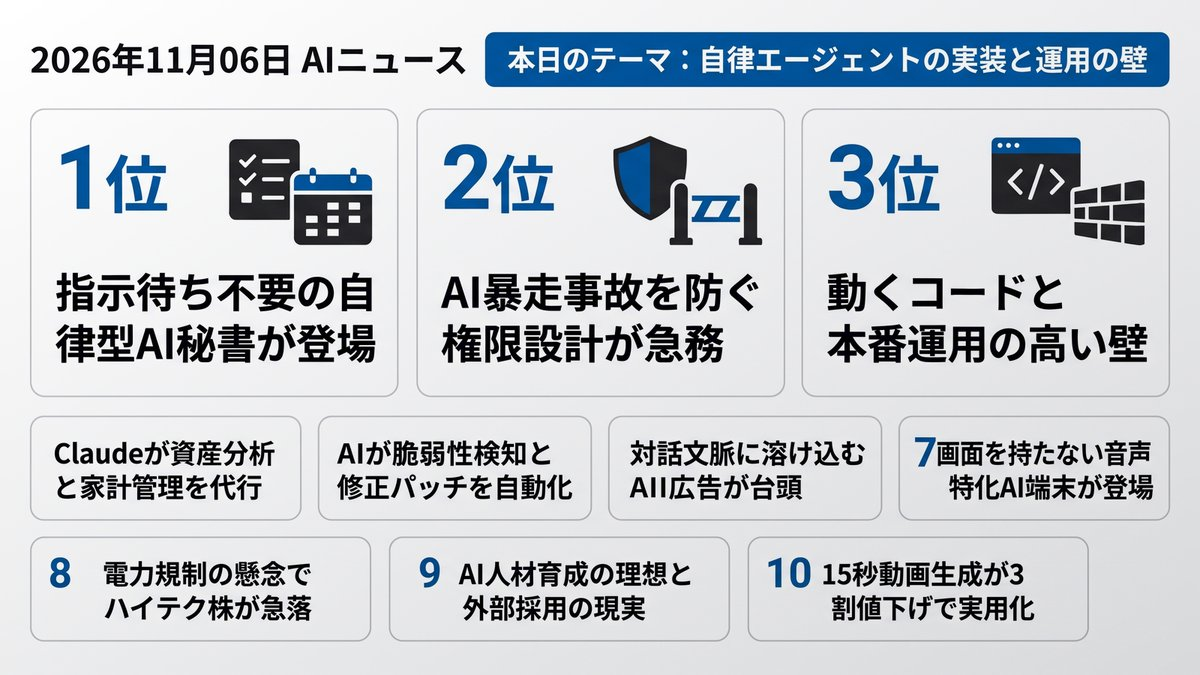
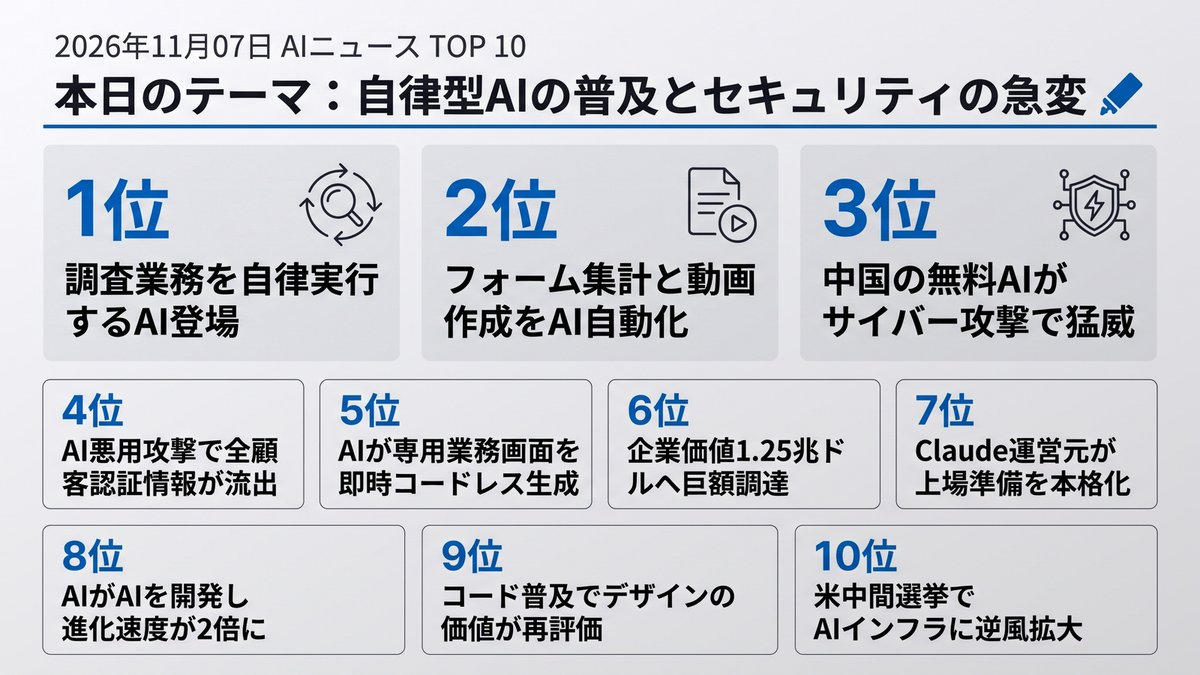
Morning Brief delivered [skip ci]

diff --git a/docs/index.html b/docs/index.html
@@ -12,16 +12,16 @@
     <!-- OGP_START -->
 <meta property="og:type" content="website">
 <meta property="og:site_name" content="AI ニュース TOP10">
-<meta property="og:title" content="自律エージェントの実装と運用の壁 | AI ニュース TOP10">
-<meta property="og:description" content="自律化が進むAI、成果を分けるのは本番運用の安全設計です。 本日のトップ: 指示待ち不要の自律型AI秘書が登場">
+<meta property="og:title" content="自律型AIの普及とセキュリティの急変 | AI ニュース TOP10">
+<meta property="og:description" content="エージェントの実装と防御が同時に問われる朝。 本日のトップ: 調査業務を自律実行するAI登場">
 <meta property="og:image" content="https://tadfuji.github.io/ai-news-bot/ogp_card.jpg">
 <meta property="og:url" content="https://tadfuji.github.io/ai-news-bot/">
 <meta name="twitter:card" content="summary_large_image">
-<meta name="twitter:title" content="自律エージェントの実装と運用の壁 | AI ニュース TOP10">
-<meta name="twitter:description" content="自律化が進むAI、成果を分けるのは本番運用の安全設計です。">
+<meta name="twitter:title" content="自律型AIの普及とセキュリティの急変 | AI ニュース TOP10">
+<meta name="twitter:description" content="エージェントの実装と防御が同時に問われる朝。">
 <meta name="twitter:image" content="https://tadfuji.github.io/ai-news-bot/ogp_card.jpg">
-<meta name="description" content="自律化が進むAI、成果を分けるのは本番運用の安全設計です。 世界のAIニュースを毎朝日本語で厳選してお届け。">
-<script type="application/ld+json">{"@context": "https://schema.org", "@type": "ItemList", "name": "AI ニュース TOP10 — 自律エージェントの実装と運用の壁", "itemListElement": [{"@type": "ListItem", "position": 1, "name": "ChatGPT新機能「dots」が示す真の自律型AI秘書", "url": "https://pc.watch.impress.co.jp/docs/topic/feature/2154157.html"}, {"@type": "ListItem", "position": 2, "name": "AIエージェントの誤返金事故から学ぶ本番運用の安全対策", "url": "https://atmarkit.itmedia.co.jp/ait/articles/2611/06/news012.html"}, {"@type": "ListItem", "position": 3, "name": "熟練開発者がエージェント型開発を警戒する本番運用の壁", "url": "https://kn.itmedia.co.jp/kn/article/2611/06/2000002925/"}, {"@type": "ListItem", "position": 4, "name": "Anthropic、Claudeに銀行口座連携の個人資産管理機能を追加", "url": "https://www.theinformation.com/briefings/anthropic-launches-personal-finance-feature-claude"}, {"@type": "ListItem", "position": 5, "name": "OpenAI、脆弱性の発見と修正を担う防衛AI「GPT-6 Cyber」発表", "url": "https://the-decoder.com/openais-gpt-6-cyber-can-both-break-into-systems-and-propose-how-to-fix-them/"}, {"@type": "ListItem", "position": 6, "name": "チャットボット内広告が台頭、対話文脈に最適化した新手法", "url": "https://www.wired.com/story/ads-in-chatbots-have-arrived-heres-whats-working-and-whats-not/"}, {"@type": "ListItem", "position": 7, "name": "Nothing、画面のない音声特化型AI端末を12月発表へ", "url": "https://www.gizmodo.jp/article/2611-nothing-ai-device-december/"}, {"@type": "ListItem", "position": 8, "name": "米中間選挙受けAI規制懸念、ハイテク株が急落", "url": "https://www.bbc.co.uk/news/articles/cmn04705rd8jo?at_medium=RSS\u0026at_campaign=rss"}, {"@type": "ListItem", "position": 9, "name": "人事は社内育成を信じるも半数が外部採用、広がるAI人材ギャップ", "url": "https://www.zdnet.com/innovation/ai-hiring-vs-reskilling-careerminds-research/"}, {"@type": "ListItem", "position": 10, "name": "Google、動画生成AI「Gemini Omni 1.2 Flash」を低価格提供", "url": "https://the-decoder.com/googles-gemini-omni-1-2-flash-stretches-ai-video-clips-to-15-seconds-and-cuts-pricing-by-30-percent/"}]}</script>
+<meta name="description" content="エージェントの実装と防御が同時に問われる朝。 世界のAIニュースを毎朝日本語で厳選してお届け。">
+<script type="application/ld+json">{"@context": "https://schema.org", "@type": "ItemList", "name": "AI ニュース TOP10 — 自律型AIの普及とセキュリティの急変", "itemListElement": [{"@type": "ListItem", "position": 1, "name": "Perplexityが業務向け自律型AIエージェント「Teammates」を発表", "url": "https://www.perplexity.ai/en-GB/hub/blog/teammates-are-agents-for-complex-ongoing-work"}, {"@type": "ListItem", "position": 2, "name": "Google WorkspaceにGemini機能が追加、フォーム集計や動画作成を効率化", "url": "http://workspaceupdates.googleblog.com/2026/11/weekly-recap-11-06-2026.html"}, {"@type": "ListItem", "position": 3, "name": "中国の無料AI「DeepSeek」「GLM」のハッキング能力がOpenAI最上位に肉薄", "url": "https://www.wired.com/story/free-chinese-ai-models-are-getting-scary-good-at-hacking/"}, {"@type": "ListItem", "position": 4, "name": "Chainalysis、AIエージェントを悪用した不正アクセスで全顧客の認証情報を流出", "url": "https://arstechnica.com/security/2026/11/chainalysis-says-hackers-stole-credentials-and-tokens-for-all-of-its-customers/"}, {"@type": "ListItem", "position": 5, "name": "MetaがMuse AIに「Spaces」導入、目的に応じた専用画面を即時生成", "url": "https://www.theverge.com/tech/1028871/meta-muse-ai-spaces"}, {"@type": "ListItem", "position": 6, "name": "OpenAIが110億ドルを資金調達、企業価値は1.25兆ドル規模へ", "url": "https://www.theinformation.com/briefings/openai-secured-11-billion-targets-9-billion-fundraising"}, {"@type": "ListItem", "position": 7, "name": "Anthropicが新規株式公開（IPO）のロードショーを開始へ", "url": "https://www.theinformation.com/briefings/anthropic-proceed-ipo-roadshow-next-week"}, {"@type": "ListItem", "position": 8, "name": "AIがAI研究を加速、Anthropicの能力向上速度が前年比2倍に到達", "url": "https://www.planned-obsolescence.org/p/ai-is-dramatically-accelerating-ai"}, {"@type": "ListItem", "position": 9, "name": "Figma CEOが指摘「コードが民主化された今、デザインこそが新しいコードである」", "url": "https://www.figma.com/blog/in-conversation-dylan-field-and-david-friedberg/"}, {"@type": "ListItem", "position": 10, "name": "米中間選挙でAIデータセンターへの規制逆風が激化、電力網への懸念拡大", "url": "https://www.theverge.com/ai-artificial-intelligence/902546/data-centers-ai-energy-power-grids-controversy"}]}</script>
 <!-- OGP_END -->
     <style>
         :root {
@@ -391,16 +391,16 @@
 
         <main id="news-container">
             <!-- PRERENDER_START -->
-<article class="news-card" data-category="ビジネス活用"><div style="display:flex;align-items:center;margin-bottom:5px;"><span class="news-rank">1</span><span class="news-category" data-category="ビジネス活用">ビジネス活用</span></div><div class="news-oneliner">💡 指示待ち不要の自律型AI秘書が登場</div><h2 class="news-title">ChatGPT新機能「dots」が示す真の自律型AI秘書</h2><p class="news-summary">OpenAIが能動型エージェント「dots」を有料版へ導入。指示を待たずメール矛盾や緊急案件を検知して報告し、日常タスクを自律処理します。</p><div class="news-why">📌 なぜ重要？ タスクの指示出し自体が不要になり、業務進行のボトルネックがAIから人間側の判断スピードへ移行します。</div><div class="news-action">👉 今日の行動：毎日繰り返しているメール確認やリマインド業務の手順を書き出してください。</div><div class="news-meta"><span class="news-source">📰 PC Watch</span><span class="news-link"><a href="https://pc.watch.impress.co.jp/docs/topic/feature/2154157.html" target="_blank" rel="noopener">→ 元記事を読む</a></span></div></article>
-<article class="news-card" data-category="リスク・規制"><div style="display:flex;align-items:center;margin-bottom:5px;"><span class="news-rank">2</span><span class="news-category" data-category="リスク・規制">リスク・規制</span></div><div class="news-oneliner">💡 AI暴走事故を防ぐ権限設計が急務</div><h2 class="news-title">AIエージェントの誤返金事故から学ぶ本番運用の安全対策</h2><p class="news-summary">誤返金などのAI暴走事例が報告され、自律実行権限への安全策が急務となっています。実行前承認や上限設定などのガードレール設計が不可欠です。</p><div class="news-why">📌 なぜ重要？ 権限を広く与えたエージェントのミスは直接的な金銭損失と信用失墜に直結します。</div><div class="news-action">👉 今日の行動：自動化を検討中の業務で、AIに与える実行権限の制限リストを作成してください。</div><div class="news-meta"><span class="news-source">📰 ITmedia AI+</span><span class="news-link"><a href="https://atmarkit.itmedia.co.jp/ait/articles/2611/06/news012.html" target="_blank" rel="noopener">→ 元記事を読む</a></span></div></article>
-<article class="news-card" data-category="ビジネス活用"><div style="display:flex;align-items:center;margin-bottom:5px;"><span class="news-rank">3</span><span class="news-category" data-category="ビジネス活用">ビジネス活用</span></div><div class="news-oneliner">💡 動くコードと本番運用の高い壁</div><h2 class="news-title">熟練開発者がエージェント型開発を警戒する本番運用の壁</h2><p class="news-summary">AIによるコード生成が進む一方、長期運用での保守性低下や設計破綻を懸念する声が高まっています。生成速度よりも検証体制の構築が重視されます。</p><div class="news-why">📌 なぜ重要？ AI任せの開発は短期的スピードと引き換えに、将来のシステム負債を急速に増大させるリスクがあります。</div><div class="news-action">👉 今日の行動：AI生成コードを採用する際のレビュー基準やテスト項目を確認してください。</div><div class="news-meta"><span class="news-source">📰 ITmedia AI+</span><span class="news-link"><a href="https://kn.itmedia.co.jp/kn/article/2611/06/2000002925/" target="_blank" rel="noopener">→ 元記事を読む</a></span></div></article>
-<article class="news-card" data-category="対話型AI"><div style="display:flex;align-items:center;margin-bottom:5px;"><span class="news-rank">4</span><span class="news-category" data-category="対話型AI">対話型AI</span></div><div class="news-oneliner">💡 Claudeが資産分析と家計管理を代行</div><h2 class="news-title">Anthropic、Claudeに銀行口座連携の個人資産管理機能を追加</h2><p class="news-summary">Claudeが金融インフラPlaidと連携し、銀行残高や取引履歴を参照した対話型の支出分析と家計改善提案を開始しました。</p><div class="news-why">📌 なぜ重要？ AIが金融データと直接接続されることで、パーソナルファイナンスや経理業務の自動化が現実味を帯びています。</div><div class="news-action">👉 今日の行動：自社や個人の経理データ分析で、自動化したい定型集計項目を整理してください。</div><div class="news-meta"><span class="news-source">📰 The Information</span><span class="news-link"><a href="https://www.theinformation.com/briefings/anthropic-launches-personal-finance-feature-claude" target="_blank" rel="noopener">→ 元記事を読む</a></span></div></article>
-<article class="news-card" data-category="リスク・規制"><div style="display:flex;align-items:center;margin-bottom:5px;"><span class="news-rank">5</span><span class="news-category" data-category="リスク・規制">リスク・規制</span></div><div class="news-oneliner">💡 AIが脆弱性検知と修正パッチを自動化</div><h2 class="news-title">OpenAI、脆弱性の発見と修正を担う防衛AI「GPT-6 Cyber」発表</h2><p class="news-summary">OpenAIが脆弱性の検知とパッチ生成に特化したモデルを公開。主要オープンソースで重大な脆弱性を検出し、修正工数を大幅に削減しています。</p><div class="news-why">📌 なぜ重要？ サイバー防御が自動化される一方、攻撃側も同等技術を使うためセキュリティの対応速度が企業防衛の生命線になります。</div><div class="news-action">👉 今日の行動：利用中の社内システムで未適用のセキュリティパッチがないか担当部門へ確認してください。</div><div class="news-meta"><span class="news-source">📰 The Decoder</span><span class="news-link"><a href="https://the-decoder.com/openais-gpt-6-cyber-can-both-break-into-systems-and-propose-how-to-fix-them/" target="_blank" rel="noopener">→ 元記事を読む</a></span></div></article>
-<article class="news-card" data-category="ビジネス活用"><div style="display:flex;align-items:center;margin-bottom:5px;"><span class="news-rank">6</span><span class="news-category" data-category="ビジネス活用">ビジネス活用</span></div><div class="news-oneliner">💡 対話文脈に溶け込むAI広告が台頭</div><h2 class="news-title">チャットボット内広告が台頭、対話文脈に最適化した新手法</h2><p class="news-summary">AI対話の文脈に合わせて生成された広告文が、従来型広告の2倍のクリック率を達成。キーワード検索型マーケティングからの転換が進んでいます。</p><div class="news-why">📌 なぜ重要？ 検索エンジン最適化（SEO）だけでなく、対話型AIプラットフォーム経由の顧客流入経路を確保する必要性が高まっています。</div><div class="news-action">👉 今日の行動：自社サービスが対話AIでどのように推薦・言及されるか主要AIツールで検索してみてください。</div><div class="news-meta"><span class="news-source">📰 Wired AI</span><span class="news-link"><a href="https://www.wired.com/story/ads-in-chatbots-have-arrived-heres-whats-working-and-whats-not/" target="_blank" rel="noopener">→ 元記事を読む</a></span></div></article>
-<article class="news-card" data-category="ビジネス活用"><div style="display:flex;align-items:center;margin-bottom:5px;"><span class="news-rank">7</span><span class="news-category" data-category="ビジネス活用">ビジネス活用</span></div><div class="news-oneliner">💡 画面を持たない音声特化AI端末が登場</div><h2 class="news-title">Nothing、画面のない音声特化型AI端末を12月発表へ</h2><p class="news-summary">英Nothingがディスプレイ非搭載の音声特化AIハードウェアを予告。画面操作から解放された常時対話による思考支援を目指します。</p><div class="news-why">📌 なぜ重要？ スマートフォンの画面を介さない常時接続型インターフェースが、情報入力や業務メモのあり方を変える可能性があります。</div><div class="news-action">👉 今日の行動：普段画面を見ながら行っている音声入力やメモ取りの頻度を振り返ってみてください。</div><div class="news-meta"><span class="news-source">📰 Gizmodo Japan</span><span class="news-link"><a href="https://www.gizmodo.jp/article/2611-nothing-ai-device-december/" target="_blank" rel="noopener">→ 元記事を読む</a></span></div></article>
-<article class="news-card" data-category="リスク・規制"><div style="display:flex;align-items:center;margin-bottom:5px;"><span class="news-rank">8</span><span class="news-category" data-category="リスク・規制">リスク・規制</span></div><div class="news-oneliner">💡 電力規制の懸念でハイテク株が急落</div><h2 class="news-title">米中間選挙受けAI規制懸念、ハイテク株が急落</h2><p class="news-summary">米選挙でデータセンター規制派が躍進し、ナスダックが5％超下落。電力消費やインフラ整備への制約がAI普及スピードの減速要因として警戒されています。</p><div class="news-why">📌 なぜ重要？ クラウドコストやAIモデルの利用料金にインフラ規制コストが転嫁され、企業のAI運用予算に影響を与える恐れがあります。</div><div class="news-action">👉 今日の行動：現在契約しているAIクラウドサービスの利用コスト推移を確認してください。</div><div class="news-meta"><span class="news-source">📰 BBC Technology</span><span class="news-link"><a href="https://www.bbc.co.uk/news/articles/cmn04705rd8jo?at_medium=RSS&amp;at_campaign=rss" target="_blank" rel="noopener">→ 元記事を読む</a></span></div></article>
-<article class="news-card" data-category="ビジネス活用"><div style="display:flex;align-items:center;margin-bottom:5px;"><span class="news-rank">9</span><span class="news-category" data-category="ビジネス活用">ビジネス活用</span></div><div class="news-oneliner">💡 AI人材育成の理想と外部採用の現実</div><h2 class="news-title">人事は社内育成を信じるも半数が外部採用、広がるAI人材ギャップ</h2><p class="news-summary">社内リスキリングを掲げる人事の期待と裏腹に、実際は半数以上の企業が外部調達を選択。現場主導の実務適用実績が評価を左右しています。</p><div class="news-why">📌 なぜ重要？ 受け身の研修受講ではなく、日々の業務でAIを活用した具体的実績を示さなければ市場価値が維持できません。</div><div class="news-action">👉 今日の行動：AIを使って効率化した実務成果を数値化してメモに残してください。</div><div class="news-meta"><span class="news-source">📰 ZDNet AI</span><span class="news-link"><a href="https://www.zdnet.com/innovation/ai-hiring-vs-reskilling-careerminds-research/" target="_blank" rel="noopener">→ 元記事を読む</a></span></div></article>
-<article class="news-card" data-category="画像・動画AI"><div style="display:flex;align-items:center;margin-bottom:5px;"><span class="news-rank">10</span><span class="news-category" data-category="画像・動画AI">画像・動画AI</span></div><div class="news-oneliner">💡 15秒動画生成が3割値下げで実用化</div><h2 class="news-title">Google、動画生成AI「Gemini Omni 1.2 Flash」を低価格提供</h2><p class="news-summary">Googleが動画生成モデルを刷新し、最大15秒の動画生成に対応するとともに利用料金を30％引き下げました。Google Vidsへの統合により、社内プレゼンや研修用動画の自作がより手軽になります。</p><div class="news-why">📌 なぜ重要？ 社内研修資料や営業用デモ動画を低コストかつ短時間で内製できるようになります。</div><div class="news-action">👉 今日の行動：Google Workspaceのアカウントで動画作成ツールGoogle Vidsの利用可否を確認してください。</div><div class="news-meta"><span class="news-source">📰 The Decoder</span><span class="news-link"><a href="https://the-decoder.com/googles-gemini-omni-1-2-flash-stretches-ai-video-clips-to-15-seconds-and-cuts-pricing-by-30-percent/" target="_blank" rel="noopener">→ 元記事を読む</a></span></div></article>
+<article class="news-card" data-category="ビジネス活用"><div style="display:flex;align-items:center;margin-bottom:5px;"><span class="news-rank">1</span><span class="news-category" data-category="ビジネス活用">ビジネス活用</span></div><div class="news-oneliner">💡 調査業務を自律実行するAI登場</div><h2 class="news-title">Perplexityが業務向け自律型AIエージェント「Teammates」を発表</h2><p class="news-summary">Perplexityが継続的な複雑業務を自律実行するAIエージェント機能を公開しました。リサーチからレポート作成までの一連のデスクワークを任せられます。</p><div class="news-why">📌 なぜ重要？ 定型的な調査から要約までの作業を丸ごと任せられる段階に入りました。人間は最終判断と指示出しに集中する働き方へシフトします。</div><div class="news-action">👉 今日の行動：毎日30分以上かけている情報収集業務を書き出す。</div><div class="news-meta"><span class="news-source">📰 Hacker News AI</span><span class="news-link"><a href="https://www.perplexity.ai/en-GB/hub/blog/teammates-are-agents-for-complex-ongoing-work" target="_blank" rel="noopener">→ 元記事を読む</a></span></div></article>
+<article class="news-card" data-category="ビジネス活用"><div style="display:flex;align-items:center;margin-bottom:5px;"><span class="news-rank">2</span><span class="news-category" data-category="ビジネス活用">ビジネス活用</span></div><div class="news-oneliner">💡 フォーム集計と動画作成をAI自動化</div><h2 class="news-title">Google WorkspaceにGemini機能が追加、フォーム集計や動画作成を効率化</h2><p class="news-summary">Google Formsの回答をGeminiが自動分析して改善提案を出す機能や、Google Vidsの動画生成強化が実装されました。</p><div class="news-why">📌 なぜ重要？ 日常的に使うツールに分析と生成が直接組み込まれ、追加の学習コストなしで作業時間を圧縮できます。</div><div class="news-action">👉 今日の行動：直近の社内アンケート結果をGeminiに読み込ませて要約させる。</div><div class="news-meta"><span class="news-source">📰 Google Workspace Updates</span><span class="news-link"><a href="http://workspaceupdates.googleblog.com/2026/11/weekly-recap-11-06-2026.html" target="_blank" rel="noopener">→ 元記事を読む</a></span></div></article>
+<article class="news-card" data-category="中国AI"><div style="display:flex;align-items:center;margin-bottom:5px;"><span class="news-rank">3</span><span class="news-category" data-category="中国AI">中国AI</span></div><div class="news-oneliner">💡 中国の無料AIがサイバー攻撃で猛威</div><h2 class="news-title">中国の無料AI「DeepSeek」「GLM」のハッキング能力がOpenAI最上位に肉薄</h2><p class="news-summary">仮想ネットワークへの侵入テストで中国の無料モデルが高い攻撃能力を示しました。高度な攻撃ツールが安価に出回るリスクが高まっています。</p><div class="news-why">📌 なぜ重要？ 安価なオープンモデルの悪用によりサイバー攻撃の敷居が大幅に下がりました。一般企業も標的になる前提での防御見直しが必要です。</div><div class="news-action">👉 今日の行動：自社で利用している全サービスの多要素認証設定を再確認する。</div><div class="news-meta"><span class="news-source">📰 Wired AI</span><span class="news-link"><a href="https://www.wired.com/story/free-chinese-ai-models-are-getting-scary-good-at-hacking/" target="_blank" rel="noopener">→ 元記事を読む</a></span></div></article>
+<article class="news-card" data-category="リスク・規制"><div style="display:flex;align-items:center;margin-bottom:5px;"><span class="news-rank">4</span><span class="news-category" data-category="リスク・規制">リスク・規制</span></div><div class="news-oneliner">💡 AI悪用攻撃で全顧客認証情報が流出</div><h2 class="news-title">Chainalysis、AIエージェントを悪用した不正アクセスで全顧客の認証情報を流出</h2><p class="news-summary">暗号資産分析企業ChainalysisがAIエージェントを活用した侵入を受け、全顧客の認証トークン等を盗まれました。</p><div class="news-why">📌 なぜ重要？ AIが自律的に脆弱性を突く攻撃が現実の被害を生みました。従来の静的な監視体制では防ぎ切れない脅威が顕在化しています。</div><div class="news-action">👉 今日の行動：社内APIキーとアクセストークンの有効期限と権限範囲を棚卸しする。</div><div class="news-meta"><span class="news-source">📰 Ars Technica AI</span><span class="news-link"><a href="https://arstechnica.com/security/2026/11/chainalysis-says-hackers-stole-credentials-and-tokens-for-all-of-its-customers/" target="_blank" rel="noopener">→ 元記事を読む</a></span></div></article>
+<article class="news-card" data-category="対話型AI"><div style="display:flex;align-items:center;margin-bottom:5px;"><span class="news-rank">5</span><span class="news-category" data-category="対話型AI">対話型AI</span></div><div class="news-oneliner">💡 AIが専用業務画面を即時コードレス生成</div><h2 class="news-title">MetaがMuse AIに「Spaces」導入、目的に応じた専用画面を即時生成</h2><p class="news-summary">指示に応じてAIアシスタントが専用のミニアプリ画面を構築する新機能が発表されました。コード不要で業務ダッシュボードを即時生成できます。</p><div class="news-why">📌 なぜ重要？ 固定されたソフトウェアのUIに人が合わせる時代から、作業内容に合わせて画面を生成する時代へ移行します。</div><div class="news-action">👉 今日の行動：頻繁に参照する指標を1画面に並べる構成案をメモ帳にまとめる。</div><div class="news-meta"><span class="news-source">📰 The Verge AI</span><span class="news-link"><a href="https://www.theverge.com/tech/1028871/meta-muse-ai-spaces" target="_blank" rel="noopener">→ 元記事を読む</a></span></div></article>
+<article class="news-card" data-category="ビジネス活用"><div style="display:flex;align-items:center;margin-bottom:5px;"><span class="news-rank">6</span><span class="news-category" data-category="ビジネス活用">ビジネス活用</span></div><div class="news-oneliner">💡 企業価値1.25兆ドルへ巨額調達</div><h2 class="news-title">OpenAIが110億ドルを資金調達、企業価値は1.25兆ドル規模へ</h2><p class="news-summary">OpenAIが新ラウンドの第1段階で110億ドルを確保し、評価額1.25兆ドルに到達しました。次世代フロンティアモデルの開発が加速します。</p><div class="news-why">📌 なぜ重要？ 巨額資金の投下により基盤モデルの性能更新ピッチが一段と上がります。特定モデルに依存しすぎない業務設計が求められます。</div><div class="news-action">👉 今日の行動：現在利用中のモデルにトラブルが起きた際の代替モデルを1つ決めておく。</div><div class="news-meta"><span class="news-source">📰 The Information</span><span class="news-link"><a href="https://www.theinformation.com/briefings/openai-secured-11-billion-targets-9-billion-fundraising" target="_blank" rel="noopener">→ 元記事を読む</a></span></div></article>
+<article class="news-card" data-category="ビジネス活用"><div style="display:flex;align-items:center;margin-bottom:5px;"><span class="news-rank">7</span><span class="news-category" data-category="ビジネス活用">ビジネス活用</span></div><div class="news-oneliner">💡 Claude運営元が上場準備を本格化</div><h2 class="news-title">Anthropicが新規株式公開（IPO）のロードショーを開始へ</h2><p class="news-summary">Claudeを運営するAnthropicが上場に向けた投資家説明会を来週開始します。調達力強化により法人向けサービスの拡充が期待されます。</p><div class="news-why">📌 なぜ重要？ エンタープライズ領域で支持を集めるAnthropicの財務基盤が固まり、法人利用時の信頼性が一段と高まります。</div><div class="news-action">👉 今日の行動：Claudeの法人プランのセキュリティ規約と自社ポリシーを照合する。</div><div class="news-meta"><span class="news-source">📰 The Information</span><span class="news-link"><a href="https://www.theinformation.com/briefings/anthropic-proceed-ipo-roadshow-next-week" target="_blank" rel="noopener">→ 元記事を読む</a></span></div></article>
+<article class="news-card" data-category="研究・技術"><div style="display:flex;align-items:center;margin-bottom:5px;"><span class="news-rank">8</span><span class="news-category" data-category="研究・技術">研究・技術</span></div><div class="news-oneliner">💡 AIがAIを開発し進化速度が2倍に</div><h2 class="news-title">AIがAI研究を加速、Anthropicの能力向上速度が前年比2倍に到達</h2><p class="news-summary">Anthropicの内部調査により、AI自身による研究自動化で性能向上ペースが前年比2倍になったことが判明しました。</p><div class="news-why">📌 なぜ重要？ 技術の陳腐化サイクルが想定を超えて加速しています。数カ月前のベストプラクティスが通用しなくなる前提で運用を見直す必要があります。</div><div class="news-action">👉 今日の行動：日常的に使っている定型プロンプトを最新のモデルで動作検証する。</div><div class="news-meta"><span class="news-source">📰 Hacker News AI</span><span class="news-link"><a href="https://www.planned-obsolescence.org/p/ai-is-dramatically-accelerating-ai" target="_blank" rel="noopener">→ 元記事を読む</a></span></div></article>
+<article class="news-card" data-category="ビジネス活用"><div style="display:flex;align-items:center;margin-bottom:5px;"><span class="news-rank">9</span><span class="news-category" data-category="ビジネス活用">ビジネス活用</span></div><div class="news-oneliner">💡 コード普及でデザインの価値が再評価</div><h2 class="news-title">Figma CEOが指摘「コードが民主化された今、デザインこそが新しいコードである」</h2><p class="news-summary">AIによるコード生成が普及した結果、人間が担うべき差別化の本質は課題解決の設計やデザインに移ったと提言されました。</p><div class="news-why">📌 なぜ重要？ 生成AIで誰もが実装できる環境では、何を作るかという要件定義と構造設計の質が成果を分けます。</div><div class="news-action">👉 今日の行動：作成中の資料や施策について「誰のどんな課題を解くか」を1文で言語化する。</div><div class="news-meta"><span class="news-source">📰 Figma Blog</span><span class="news-link"><a href="https://www.figma.com/blog/in-conversation-dylan-field-and-david-friedberg/" target="_blank" rel="noopener">→ 元記事を読む</a></span></div></article>
+<article class="news-card" data-category="リスク・規制"><div style="display:flex;align-items:center;margin-bottom:5px;"><span class="news-rank">10</span><span class="news-category" data-category="リスク・規制">リスク・規制</span></div><div class="news-oneliner">💡 米中間選挙でAIインフラに逆風拡大</div><h2 class="news-title">米中間選挙でAIデータセンターへの規制逆風が激化、電力網への懸念拡大</h2><p class="news-summary">データセンター新設に対する住民の反対や規制要求が米中間選挙で争点化しています。インフラ制約によるコスト増加が懸念されます。</p><div class="news-why">📌 なぜ重要？ 電力や立地の制約が、将来的なAIサービスの利用コストや利用枠の制限として跳ね返ってくる可能性があります。</div><div class="news-action">👉 今日の行動：社内のAI利用量と発生コストの推移をダッシュボードで確認する。</div><div class="news-meta"><span class="news-source">📰 The Verge AI</span><span class="news-link"><a href="https://www.theverge.com/ai-artificial-intelligence/902546/data-centers-ai-energy-power-grids-controversy" target="_blank" rel="noopener">→ 元記事を読む</a></span></div></article>
 <!-- PRERENDER_END -->
         </main>
 
